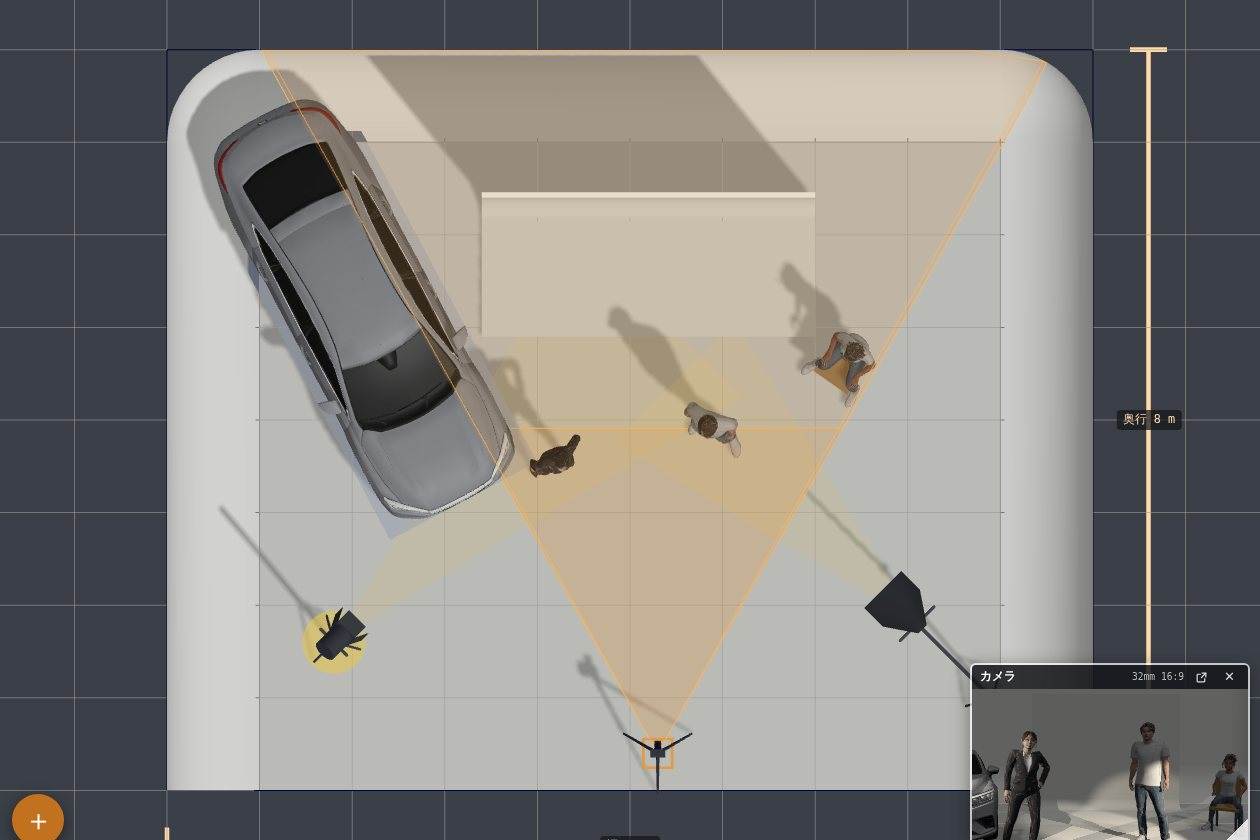
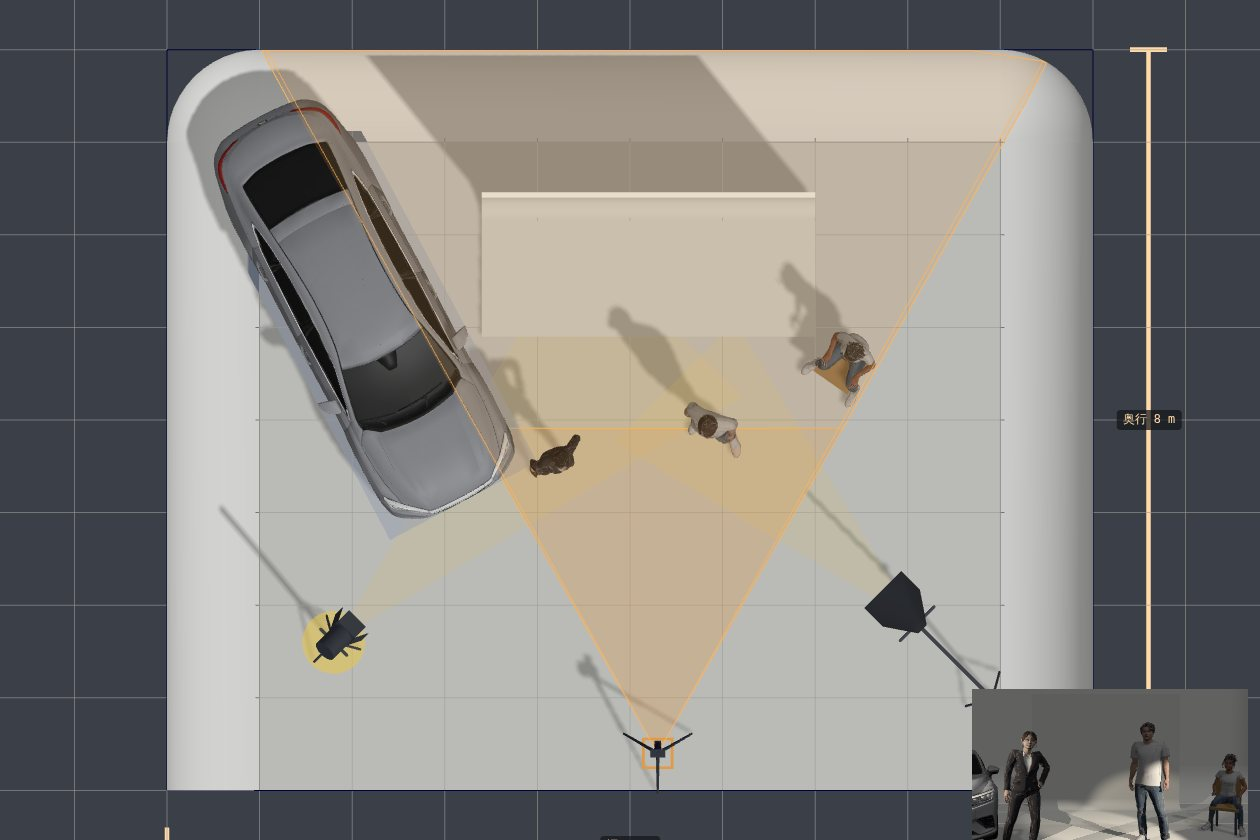
LP: 紹介動画をヒーローに、機能の説明を絵と文で交互に（v1.45.1）
- 「CG スタッフではなく現場の人のために」の節を外す（開発時の想いで、
  現場の人が知りたい情報ではない）
- 文を「です・ます」の完結した文に書き直す。体言止めを続けない、同じ話を
  言い換えて繰り返さない。英語も同じ構成で書き直し
- ヒーロー画像をやめ、YouTube の紹介動画をヒーローに。その下に
  スタジオ／カメラ／人物とポーズ／ライトと小道具／スキャンとカット／
  用紙・リンク・QR／スマホ／料金とデータ／FAQ の順で機能を説明
- 絵を 6 枚に（ライトの絵と + の人物一覧を追加、hero.jpg を廃止）。
  PC の絵は + と小窓を隠して撮る。tools/make-about-shots.mjs の
  orbit の呼び方を直す（状態オブジェクトへの代入）
- docs/notes/about.md に文の書き方と、寺村さんに用意してもらう絵のことを書く

Claude-Session: https://claude.ai/code/session_018TCFaYoGWeARcXNBdDJsaY

Changed region(s): [[0.7429, 0.7738, 1.0, 1.0], [0.0, 0.9286, 0.0619, 1.0]]

diff --git a/about/index.html b/about/index.html
@@ -4,10 +4,10 @@
 <meta charset="utf-8">
 <meta name="viewport" content="width=device-width, initial-scale=1, viewport-fit=cover">
 <title>Studio Planner とは</title>
-<meta name="description" content="スタジオの広さ・立ち位置・カメラの画角を、ブラウザで 30 秒。登録もインストールも要らない、撮影の準備と打合せのための 3D。A4 の図面と共有リンクにして現場に配れる。">
+<meta name="description" content="撮影の準備と打合せのための 3D の道具。スタジオの寸法を打ち込んで人や機材を置くと、カメラに何が写るかが分かります。登録もインストールも要りません。A4 の用紙とリンクにして配れます。">
 <meta property="og:type" content="website">
 <meta property="og:title" content="Studio Planner とは">
-<meta property="og:description" content="スタジオの広さ・立ち位置・カメラの画角を、ブラウザで 30 秒。登録もインストールも不要。">
+<meta property="og:description" content="撮影の準備と打合せのための 3D の道具。登録もインストールも要りません。">
 <meta property="og:image" content="https://sp.taichi-teramura.com/ogp.png">
 <meta name="twitter:card" content="summary_large_image">
 <link rel="icon" type="image/png" sizes="32x32" href="../favicon-32.png">
@@ -35,9 +35,10 @@
 }
 *{box-sizing:border-box}
 html{scroll-behavior:smooth}
-body{margin:0;background:var(--bg);color:var(--ink);font-family:"Noto Sans JP",system-ui,-apple-system,"Segoe UI",sans-serif;line-height:1.75;font-size:16px;-webkit-text-size-adjust:100%}
+body{margin:0;background:var(--bg);color:var(--ink);font-family:"Noto Sans JP",system-ui,-apple-system,"Segoe UI",sans-serif;line-height:1.85;font-size:16px;-webkit-text-size-adjust:100%}
 a{color:var(--link)}
 img{max-width:100%;height:auto;display:block}
+p{margin:0 0 1em}
 .wrap{max-width:1040px;margin:0 auto;padding:0 16px}
 header{position:sticky;top:0;z-index:5;background:color-mix(in srgb,var(--bg) 88%,transparent);backdrop-filter:blur(10px);border-bottom:1px solid var(--rule)}
 header .wrap{display:flex;align-items:center;gap:12px;height:56px}
@@ -47,54 +48,47 @@ header nav{margin-left:auto;display:flex;gap:6px;align-items:center}
 header nav a{text-decoration:none;color:var(--ink2);font-size:.9rem;padding:6px 10px;border-radius:8px}
 header nav a:hover{background:var(--panel)}
 header nav a.go{background:var(--btn-on);color:var(--btn-on-ink);font-weight:500}
-.hero{padding:56px 0 28px}
-.hero h1{font-size:clamp(1.7rem,4.2vw,2.7rem);line-height:1.3;margin:0 0 14px;letter-spacing:-.01em}
-.hero p.lead{font-size:1.05rem;color:var(--ink2);max-width:640px;margin:0 0 22px}
-.cta{display:flex;gap:10px;flex-wrap:wrap;margin:0 0 26px}
+.hero{padding:48px 0 12px}
+.hero h1{font-size:clamp(1.6rem,3.8vw,2.4rem);line-height:1.4;margin:0 0 16px;letter-spacing:-.01em}
+.hero p.lead{font-size:1.05rem;color:var(--ink2);max-width:680px;margin:0 0 22px}
+.cta{display:flex;gap:10px;flex-wrap:wrap;margin:0 0 28px}
 .btn{display:inline-block;padding:12px 22px;border-radius:12px;text-decoration:none;font-weight:700;border:1px solid var(--rule);background:var(--panel);color:var(--ink)}
 .btn.primary{background:var(--accent);border-color:var(--accent);color:#fff}
 .btn.primary:hover{filter:brightness(1.06)}
-.shot{border-radius:14px;overflow:hidden;box-shadow:0 12px 40px rgba(0,0,0,.18);background:var(--viewport);border:1px solid var(--rule)}
-.badges{display:flex;flex-wrap:wrap;gap:8px;margin:18px 0 0}
-.badges span{font-size:.82rem;padding:4px 10px;border-radius:999px;background:var(--accent-bg);color:var(--accent-ink);font-weight:500}
-section{padding:44px 0}
-section h2{font-size:1.45rem;margin:0 0 6px;letter-spacing:-.01em}
-section p.sub{color:var(--muted);margin:0 0 22px}
 .video{aspect-ratio:16/9;border-radius:14px;overflow:hidden;background:#000;box-shadow:0 12px 40px rgba(0,0,0,.18)}
 .video iframe{width:100%;height:100%;border:0;display:block}
-.three{display:grid;grid-template-columns:repeat(3,1fr);gap:18px}
-.card{background:var(--panel);border:1px solid var(--rule);border-radius:14px;overflow:hidden}
-.card .shot{border-radius:0;border:0;box-shadow:none}
-.card .t{padding:14px 16px 16px}
-.card h3{margin:0 0 4px;font-size:1.02rem}
-.card p{margin:0;color:var(--ink2);font-size:.92rem}
-.who{display:grid;grid-template-columns:repeat(4,1fr);gap:14px}
-.who div{background:var(--panel);border:1px solid var(--rule);border-radius:12px;padding:14px 16px}
-.who b{display:block;margin-bottom:2px}
-.who span{color:var(--ink2);font-size:.9rem}
-ul.feat{columns:2;column-gap:28px;padding:0 0 0 1.2em;margin:0}
-ul.feat li{break-inside:avoid;margin:0 0 6px;color:var(--ink2)}
-ul.feat li b{color:var(--ink);font-weight:500}
-.promise{display:grid;grid-template-columns:repeat(2,1fr);gap:12px 28px}
-.promise div{padding:12px 0;border-top:1px solid var(--rule)}
-.promise b{display:block}
-.promise span{color:var(--ink2);font-size:.92rem}
+.shot{border-radius:14px;overflow:hidden;box-shadow:0 12px 40px rgba(0,0,0,.18);background:var(--viewport);border:1px solid var(--rule)}
+.shot.light{background:var(--panel)}
+section{padding:40px 0}
+section h2{font-size:1.4rem;margin:0 0 12px;letter-spacing:-.01em;line-height:1.4}
+section p{color:var(--ink2)}
+section p:last-child{margin-bottom:0}
+.feature{display:grid;grid-template-columns:1.1fr 1fr;gap:36px;align-items:center}
+.feature.flip .shot{order:-1}
+.feature .t{max-width:460px}
+.feature .t p{font-size:.97rem}
+.two{display:grid;grid-template-columns:1fr 1fr;gap:28px}
+.two h2{font-size:1.2rem}
+.mobile .shot{max-width:300px;margin:0 auto}
+.plain{max-width:680px}
 details{border-top:1px solid var(--rule);padding:12px 0}
 details:last-of-type{border-bottom:1px solid var(--rule)}
 summary{cursor:pointer;font-weight:500;list-style:none;display:flex;justify-content:space-between;gap:12px}
 summary::after{content:"+";color:var(--muted);flex:none}
 details[open] summary::after{content:"−"}
 details p{margin:8px 0 0;color:var(--ink2)}
-.mobile{display:grid;grid-template-columns:1fr 1fr;gap:28px;align-items:center}
-.mobile .shot{max-width:320px;margin:0 auto}
-footer{padding:36px 0 48px;color:var(--muted);font-size:.85rem;border-top:1px solid var(--rule);margin-top:20px}
+.last{text-align:center;padding:24px 0 40px}
+.last p{margin-bottom:18px}
+footer{padding:36px 0 48px;color:var(--muted);font-size:.85rem;border-top:1px solid var(--rule);margin-top:8px}
 footer .wrap{display:flex;flex-wrap:wrap;gap:8px 20px;align-items:center}
 footer .sp{margin-left:auto}
 @media (max-width:760px){
-  .three,.who,.promise,.mobile{grid-template-columns:1fr}
-  ul.feat{columns:1}
-  header nav a.vid{display:none}
-  .hero{padding:36px 0 22px}
+  .feature,.two{grid-template-columns:1fr;gap:18px}
+  .feature .shot,.feature.flip .shot{order:-1}
+  .feature .t{max-width:none}
+  .hero{padding:32px 0 8px}
+  .hero h1 br{display:none}
+  section{padding:32px 0}
 }
 </style>
 </head>
@@ -103,7 +97,6 @@ footer .sp{margin-left:auto}
   <img src="../icon-192.png" alt="" width="28" height="28">
   <span class="name">Studio Planner</span>
   <nav>
-    <a class="vid" href="#video" data-en="Video">紹介動画</a>
     <a id="langsw" href="?eng" data-en="日本語">English</a>
     <a class="go" href="../" data-en="Open the app">使ってみる</a>
   </nav>
@@ -111,97 +104,100 @@ footer .sp{margin-left:auto}
 
 <main class="wrap">
   <div class="hero">
-    <h1 data-en="Studio size, blocking, and the lens. In your browser, in 30 seconds.">スタジオの広さ、立ち位置、カメラの画角。<br>ブラウザで、30 秒で。</h1>
-    <p class="lead" data-en="A 3D tool for planning shoots and talking them through. No account, no install. It gives you the one picture and the one floor plan a crew needs, as an A4 sheet and a link.">撮影の準備と打合せのための 3D。登録もインストールも要らない。現場に要る「一枚の絵」と「一枚の図面」を、A4 の用紙と共有リンクにする。</p>
+    <h1 data-en="Check the studio, the blocking and the lens before the shoot, right in the browser.">スタジオの広さと立ち位置とレンズの画角を、<br>撮影の前にブラウザで確かめられます。</h1>
+    <p class="lead" data-en="Studio Planner is a 3D tool for preparing a shoot and talking it through. Type in the studio size, place people and equipment, and you can see what the camera will get. It needs no account and no install. The result can be printed as an A4 sheet or sent as a link.">Studio Planner は、撮影の準備と打合せのための 3D の道具です。スタジオの寸法を打ち込んで人や機材を置くと、カメラに何が写るかがその場で分かります。登録もインストールも要りません。できた配置は A4 の用紙に印刷したり、リンクにして送ったりできます。</p>
     <div class="cta">
       <a class="btn primary" href="../" data-en="Open the app — free">使ってみる — 無料</a>
-      <a class="btn" href="#video" data-en="Watch the 2-minute video">紹介動画を見る</a>
     </div>
-    <div class="shot"><img src="img/hero.jpg" width="1600" height="1000" alt="Studio Planner の 3D 画面。スタジオに人物と車とライトを置いたところ" data-en-alt="The Studio Planner 3D view with people, a car and lights in a studio"></div>
-    <div class="badges">
-      <span data-en="Free">無料</span><span data-en="No sign-up">登録なし</span><span data-en="No install">インストールなし</span>
-      <span data-en="Phone, tablet, PC">スマホ・タブレット・PC</span><span data-en="Works offline">圏外でも開く</span><span data-en="Japanese / English">日本語 / English</span>
-    </div>
+    <div class="video"><iframe src="https://www.youtube-nocookie.com/embed/pjHt0Eg4Tx4?rel=0" title="Studio Planner 紹介動画" allow="accelerometer; encrypted-media; gyroscope; picture-in-picture; web-share" allowfullscreen referrerpolicy="strict-origin-when-cross-origin"></iframe></div>
   </div>
 
-  <section id="video">
-    <h2 data-en="See it in two minutes">2 分で分かる紹介動画</h2>
-    <p class="sub" data-en="What it does, from placing people to printing the sheet.">人物を置くところから、用紙を出すところまで。</p>
-    <div class="video"><iframe src="https://www.youtube-nocookie.com/embed/pjHt0Eg4Tx4?rel=0" title="Studio Planner 紹介動画" loading="lazy" allow="accelerometer; encrypted-media; gyroscope; picture-in-picture; web-share" allowfullscreen referrerpolicy="strict-origin-when-cross-origin"></iframe></div>
+  <section class="feature">
+    <div class="t">
+      <h2 data-en="Build the studio and see if it all fits">スタジオを作って、入るかどうかを見る</h2>
+      <p data-en="Type in the width, depth and height and the studio is there, cyc wall included. Anything you place in it is drawn at real size, so the top-down plan tells you straight away whether the car fits, how far the camera can pull back, and how much room is left for lights.">幅と奥行と高さを打ち込むと、ホリゾント付きのスタジオができます。そこに置いたものはすべて実寸で描かれるので、車が入るか、カメラはどこまで引けるか、ライトの場所は残るかが上面の図面ですぐに分かります。</p>
+      <p data-en="Dimensions are drawn on the plan as you go. Grab a corner to resize the studio or a backdrop, and the numbers follow.">寸法は図面の上に自動で描かれます。スタジオや背景布は角をつまんで大きさを変えられ、数字もそれに合わせて変わります。</p>
+    </div>
+    <div class="shot"><img src="img/plan.jpg" width="1200" height="800" alt="上面の図面。寸法のリボンと撮影範囲" data-en-alt="Top-down plan with dimensions and the camera's field of view"></div>
   </section>
 
-  <section>
-    <h2 data-en="Three answers a crew needs">現場が知りたい 3 つの答え</h2>
-    <p class="sub" data-en="Does it fit, what does the camera see, and what do we hand out.">入るのか、カメラに何が写るのか、何を配るのか。</p>
-    <div class="three">
-      <div class="card"><div class="shot"><img src="img/plan.jpg" width="1200" height="800" alt="上面の図面。寸法のリボンと撮影範囲" data-en-alt="Top-down plan with dimensions and the camera's field of view"></div>
-        <div class="t"><h3 data-en="Does it fit?">入るのか</h3><p data-en="Studio size, cyc walls, and everything to scale on a top-down plan with dimensions. Drag the corners to resize.">スタジオの寸法とホリゾント。人・車・機材が実寸で図面に載り、寸法が付く。角をつまめば大きさも変わる。</p></div></div>
-      <div class="card"><div class="shot"><img src="img/finder.jpg" width="1200" height="800" alt="ファインダー。センサーと焦点距離どおりの画角" data-en-alt="The viewfinder, framed by sensor format and focal length"></div>
-        <div class="t"><h3 data-en="What does the camera see?">カメラに何が写るのか</h3><p data-en="Pick a sensor format and a focal length and look through the camera. Mirrors and backdrops behave like the real thing.">センサーのフォーマットと焦点距離を選んで、カメラの目で見る。鏡の映り込みも背景布も本物どおり。</p></div></div>
-      <div class="card"><div class="shot"><img src="img/sheet.jpg" width="1200" height="800" alt="A4 の用紙。上面・側面・ファインダー・寸法" data-en-alt="The A4 sheet: plan, side view, viewfinder and dimensions"></div>
-        <div class="t"><h3 data-en="What do we hand out?">何を配るのか</h3><p data-en="One A4 sheet per shot, printed from the browser. Or a link, or a QR code, and the whole plan opens on any phone.">カットごとに A4 一枚。ブラウザから印刷。リンクか QR を配れば、どのスマホでも同じ配置が開く。</p></div></div>
+  <section class="feature flip">
+    <div class="t">
+      <h2 data-en="Look through the camera">カメラの目で見る</h2>
+      <p data-en="Choose a sensor format and a focal length, and the viewfinder shows exactly that angle of view. Move the camera, tilt it, or raise it, and the picture changes with it. Mirrors reflect what is really there and backdrops are cropped where the camera sees them.">センサーのフォーマットと焦点距離を選ぶと、ファインダーにその画角がそのまま出ます。カメラを動かしたり、上下に振ったり、高さを変えたりすると、絵もそれに合わせて変わります。鏡には実際にそこにあるものが映り、背景布はカメラから見える範囲で切れます。</p>
+      <p data-en="You can keep several cameras in one plan and switch between them. The picture in the finder is what goes onto the printed sheet.">カメラは 1 つの図面に何台でも置けて、切り替えて見られます。ファインダーの絵は、そのまま印刷用の用紙に載ります。</p>
+    </div>
+    <div class="shot"><img src="img/finder.jpg" width="1200" height="800" alt="ファインダー。センサーと焦点距離どおりの画角" data-en-alt="The viewfinder, framed by sensor format and focal length"></div>
+  </section>
+
+  <section class="feature">
+    <div class="t">
+      <h2 data-en="People, with poses">人物を置いて、ポーズを付ける</h2>
+      <p data-en="There are 14 people to choose from, adults and children, and you can set each one's height and clothing. Eleven poses cover standing, sitting and lying down, and the fingers move too. Put a chair or an apple box under someone and they sit on it.">人物は大人と子どもを合わせて 14 体あり、身長と服装を変えられます。ポーズは立つ・座る・寝るなど 11 種類で、指まで動きます。椅子や箱馬の上に置けば、そこに座ります。</p>
+      <p data-en="If none of the poses is right, take a photo of the pose you want. The person on screen takes the same pose. The photo is read on your device and never uploaded.">用意したポーズに無い姿勢は、写真を撮って指定できます。写した姿勢がそのまま画面の人物に乗ります。写真は端末の中で読むだけで、どこにも送られません。</p>
+    </div>
+    <div class="shot light"><img src="img/people.jpg" width="1720" height="1000" alt="人物の一覧。+ から選ぶ" data-en-alt="The people list, opened from the + button"></div>
+  </section>
+
+  <section class="feature flip">
+    <div class="t">
+      <h2 data-en="Lights and props">ライトと小道具</h2>
+      <p data-en="Lights come in five types and can go on a stand, a boom or the floor. Set the tilt, the spread and the color. On the plan they are drawn as symbols; in the 3D view they cast light and shadows, so you can see where the light falls before anyone rigs it.">ライトは 5 つの型があり、スタンド・ブーム・床置きのどれかで置けます。向きと広がりと色を決めると、図面には記号として、3D の画面には光と影として描かれます。誰かが吊る前に、どこに光が当たるかを見ておけます。</p>
+      <p data-en="Cars, chairs, tables, apple boxes, scaffolding, flats, mirrors and LED displays are built in. Your own GLB or FBX models can be dropped in as well, and their size is read from the file.">車、椅子、テーブル、箱馬、イントレ、カポック、鏡、ディスプレイが最初から入っています。手持ちの GLB や FBX のモデルも取り込めて、大きさはファイルから読み取ります。</p>
+    </div>
+    <div class="shot"><img src="img/lights.jpg" width="1200" height="800" alt="3D の画面。スポットとソフトライトの光と影" data-en-alt="The 3D view with a spot and a soft light casting shadows"></div>
+  </section>
+
+  <section class="two">
+    <div>
+      <h2 data-en="Plan inside a scan of the location">ロケ地のスキャンの中で組む</h2>
+      <p data-en="If you have a 3D Gaussian-splat scan of a location, drop it in. It comes in at real scale, and you can place people, cars and cameras inside it just as you would in a studio. Only how the scan is placed goes into the share link; the scan itself stays on your device.">ロケ地を 3D ガウシアンスプラットでスキャンしてあれば、そのファイルを取り込めます。実寸で入るので、スタジオと同じように中に人や車やカメラを置けます。共有リンクに入るのは置き方だけで、スキャンそのものは端末に残ります。</p>
+    </div>
+    <div>
+      <h2 data-en="Several shots in one plan">1 つの図面に、複数のカット</h2>
+      <p data-en="Each shot keeps its own camera and blocking, and you switch between them with a tap. The sheet is printed per shot, so a day with five setups is five pages, all from one file.">カットごとにカメラと立ち位置を持てて、タップで切り替えられます。用紙はカット単位で出るので、5 カットの日なら 1 つのファイルから 5 枚が出ます。</p>
     </div>
   </section>
 
-  <section>
-    <h2 data-en="Made for the people on set, not for CG staff">CG スタッフではなく、現場の人のために</h2>
-    <p class="sub" data-en="Everyone should get their answer in 30 seconds, without a manual.">説明書なしで、誰でも 30 秒で答えが出るように。</p>
-    <div class="who">
-      <div><b data-en="Production manager">プロダクションマネージャー</b><span data-en="Is this studio big enough? Send the plan before booking.">このスタジオで足りるか。予約の前に図面を送る。</span></div>
-      <div><b data-en="Camera">カメラマン</b><span data-en="Lens and camera position, checked in the finder, agreed in advance.">レンズと立ち位置を、ファインダーで先に決めておく。</span></div>
-      <div><b data-en="Lighting">照明</b><span data-en="Where the lights go and what they hit. Symbols on the plan, light in the picture.">ライトの位置と向き。図面では記号、絵では光。</span></div>
-      <div><b data-en="Director">ディレクター</b><span data-en="Try the blocking with posed people before anyone is on the floor.">誰も入る前に、ポーズ付きの人物で段取りを試す。</span></div>
+  <section class="feature">
+    <div class="t">
+      <h2 data-en="Hand it out as a sheet, a link or a QR code">用紙とリンクと QR で配る</h2>
+      <p data-en="One A4 sheet per shot carries the plan, the side view, the viewfinder and the dimensions. It is printed from the browser, so there is nothing to install. Reframe the plan and the side view on the page as you like; only the finder stays fixed, so the printed frame is always what the camera will see.">A4 の用紙 1 枚に、上面図と側面図とファインダーの絵と寸法が入ります。印刷はブラウザから行うので、追加のソフトは要りません。上面図と側面図は用紙の中で好きに構図を直せますが、ファインダーだけは固定してあります。印刷した絵とカメラが撮る画角がずれないようにするためです。</p>
+      <p data-en="The share link holds the whole plan, so whoever opens it sees the same layout on their phone. A QR code of the link can go on the sheet or on the wall of the studio.">共有リンクには配置がまるごと入っているので、開いた人のスマホに同じ配置が出ます。リンクは QR コードにもできるので、用紙やスタジオの壁に貼っておけます。</p>
     </div>
+    <div class="shot light"><img src="img/sheet.jpg" width="1200" height="800" alt="A4 の用紙。上面・側面・ファインダー・寸法" data-en-alt="The A4 sheet: plan, side view, viewfinder and dimensions"></div>
   </section>
 
-  <section>
-    <h2 data-en="What's in it">できること</h2>
-    <p class="sub" data-en="Everything runs in the browser. Your data stays on your device.">ぜんぶブラウザの中で動く。データは端末の中に残る。</p>
-    <ul class="feat">
-      <li><b data-en="14 people with poses">人物 14 体とポーズ</b> — <span data-en="adults and children, standing, sitting, lying; fingers included">大人と子ども、立つ・座る・寝る、指まで動く</span></li>
-      <li><b data-en="Pose from a photo">写真からポーズ</b> — <span data-en="shoot a photo and the person takes that pose; nothing leaves the phone">写した姿勢がそのまま乗る。写真はどこにも送らない</span></li>
-      <li><b data-en="Cars, props, gear">車・小道具・機材</b> — <span data-en="cars, chairs, tables, apple boxes, scaffolding, flats, displays">車、椅子、テーブル、箱馬、イントレ、カポック、ディスプレイ</span></li>
-      <li><b data-en="Lights">ライト</b> — <span data-en="five types, stands and booms, tilt, spread, color; shadows in the picture">5 つの型、スタンドとブーム、チルト・広がり・色、絵には影</span></li>
-      <li><b data-en="Mirrors and backdrops">鏡と背景布</b> — <span data-en="real reflections in the finder, cyc with a curve">映り込みが本物どおり、R 付きのホリゾント</span></li>
-      <li><b data-en="Location scans (3DGS)">ロケ地のスキャン（3DGS）</b> — <span data-en="drop a Gaussian-splat scan in at real scale and plan inside it">ガウシアンスプラットのスキャンを実寸で置いて、その中で組む</span></li>
-      <li><b data-en="Your own 3D models">自分の 3D モデル</b> — <span data-en="GLB and FBX, sized automatically">GLB と FBX。寸法は自動</span></li>
-      <li><b data-en="Shots">カット</b> — <span data-en="several setups in one plan, one sheet each">1 つの図面に複数のカット、用紙はカットごと</span></li>
-      <li><b data-en="Share by link or QR">リンクと QR で共有</b> — <span data-en="the whole plan lives in the URL; no server, no account">配置は URL の中。サーバーもアカウントも無い</span></li>
-      <li><b data-en="Offline">オフライン</b> — <span data-en="opens without signal once you've opened it; or export one self-contained HTML">一度開いた端末は圏外でも開く。1 枚の HTML にも書き出せる</span></li>
-      <li><b data-en="Undo, lock, duplicate">取り消し・ロック・複製</b> — <span data-en="and a ruler to measure anything">それと、何でも測れる定規</span></li>
-      <li><b data-en="English">英語表示</b> — <span data-en="switches with the browser language">ブラウザの言語で自動</span></li>
-    </ul>
-  </section>
-
-  <section>
-    <div class="mobile">
-      <div>
-        <h2 data-en="On the phone in your pocket">ポケットのスマホで</h2>
-        <p class="sub" data-en="Add it to the home screen and it opens like an app. Pinch, drag, long-press. Every plan you were sent opens from the link.">ホーム画面に置けばアプリのように開く。つまむ、引く、長押し。送られた図面はリンクから開く。</p>
-        <p data-en="Studio Planner is built for the phone first: the panel folds away, the handles are sized for fingers, and the finder shows exactly what the sensor sees.">パネルは畳めて、つまみは指の大きさ。ファインダーはセンサーどおりの絵を出す。</p>
-      </div>
-      <div class="shot"><img src="img/mobile.jpg" width="780" height="1400" alt="スマホでの表示" data-en-alt="Studio Planner on a phone"></div>
+  <section class="feature flip mobile">
+    <div class="t">
+      <h2 data-en="It works on the phone in your pocket">ポケットのスマホで動きます</h2>
+      <p data-en="Studio Planner is a web page, so it opens in Safari or Chrome on a phone, a tablet or a PC. Add it to the home screen and it opens like an app, and once it has been opened it keeps working without a signal.">Studio Planner は Web ページなので、スマホでもタブレットでも PC でも、Safari や Chrome で開くだけで使えます。ホーム画面に追加するとアプリのように開き、一度開いた端末なら電波の無い場所でも動きます。</p>
+      <p data-en="The controls are made for fingers: pinch to zoom, drag to move, long-press for the menu. The settings panel folds away so the drawing gets the whole screen.">操作は指を前提にしてあります。つまんで拡大し、引いて動かし、長押しでメニューが出ます。設定のパネルは畳めるので、図面に画面をいっぱいに使えます。</p>
     </div>
+    <div class="shot"><img src="img/mobile.jpg" width="780" height="1400" alt="スマホでの表示" data-en-alt="Studio Planner on a phone"></div>
   </section>
 
   <section>
-    <h2 data-en="What we promise">約束していること</h2>
-    <div class="promise">
-      <div><b data-en="No account, ever">アカウントは作らない</b><span data-en="Sign-up is where crews give up. There is nothing to sign up for.">登録の壁がいちばんの離脱。だから無い。</span></div>
-      <div><b data-en="Free">無料</b><span data-en="Open source (MIT). The people models are the author's own.">オープンソース（MIT）。人物モデルは作者自身のもの。</span></div>
-      <div><b data-en="Your data stays with you">データは手元に残る</b><span data-en="Plans, photos and imported models never leave the device. Only visit counts are measured, without cookies.">図面・写真・取り込んだモデルは端末から出ない。計るのは訪問数だけ、Cookie も使わない。</span></div>
-      <div><b data-en="No camera model lists">機種名のリストを持たない</b><span data-en="Sensors are formats, not models. Formats don't change for decades, so nothing goes stale.">センサーはフォーマットで持つ。規格は数十年変わらないから、古くならない。</span></div>
+    <h2 data-en="Price and data">料金とデータの扱い</h2>
+    <div class="plain">
+      <p data-en="Studio Planner is free, and the code is open source under the MIT license. There is no account to create and no server that stores your plans. Everything you make stays in your browser and in the links you send. Photos used for poses and 3D files you import never leave the device.">Studio Planner は無料で、コードは MIT ライセンスで公開しています。アカウントは無く、図面を預かるサーバーもありません。作ったものはブラウザの中と、送ったリンクの中にだけあります。ポーズ用の写真や取り込んだ 3D ファイルも端末の外には出ません。</p>
+      <p data-en="The only thing measured is the number of visits, without cookies.">計っているのは訪問数だけで、Cookie は使っていません。</p>
     </div>
   </section>
 
   <section>
     <h2 data-en="Questions">よくある質問</h2>
-    <details><summary data-en="Does it work on iPhone and iPad?">iPhone や iPad で動きますか</summary><p data-en="Yes, in Safari. Add it to the home screen for the full-screen app. Android and PC browsers work too.">Safari で動きます。ホーム画面に追加すると全画面で開きます。Android と PC のブラウザも同じです。</p></details>
-    <details><summary data-en="Where is my plan saved?">図面はどこに保存されますか</summary><p data-en="In your browser, on your device. The share link carries the whole plan, so keep the link and you keep the plan. There is no server to lose it on.">ブラウザの中、その端末の中です。共有リンクに配置がまるごと入っているので、リンクを持っていれば図面を持っていることになります。無くすサーバーがありません。</p></details>
-    <details><summary data-en="Are photos for poses uploaded anywhere?">ポーズ用の写真はどこかに送られますか</summary><p data-en="No. Pose detection runs inside the browser. The photo is read once and thrown away; only joint positions are kept.">送られません。姿勢の検出はブラウザの中で動きます。写真は一度読んで捨て、残るのは関節の位置だけです。</p></details>
-    <details><summary data-en="How accurate is the lens?">レンズの画角はどのくらい正確ですか</summary><p data-en="Geometrically exact for the sensor format and focal length you choose. It doesn't simulate specific camera bodies; it doesn't need to.">選んだフォーマットと焦点距離に対して幾何学的に正確です。特定の機種は真似しません。その必要が無いからです。</p></details>
-    <details><summary data-en="Can I bring in my own studio or location?">自分のスタジオやロケ地を入れられますか</summary><p data-en="Yes: type the dimensions, import a 3D model, or drop in a 3D Gaussian-splat scan from your phone.">寸法を打ち込むか、3D モデルを取り込むか、スマホで撮った 3D ガウシアンスプラットのスキャンを置くかの 3 つです。</p></details>
+    <details><summary data-en="Which cameras are supported?">対応しているカメラは何ですか</summary><p data-en="Any camera. Instead of a list of camera models, you pick the sensor format (full frame, Super 35, Micro Four Thirds and so on) and type the focal length. Formats have not changed in decades, so the list never goes stale.">どのカメラでも使えます。機種名のリストは持たず、センサーのフォーマット（フルサイズ、Super 35、マイクロフォーサーズなど）を選んで焦点距離を打ち込みます。フォーマットは何十年も変わっていないので、古くなることがありません。</p></details>
+    <details><summary data-en="Where is my plan saved?">図面はどこに保存されますか</summary><p data-en="In the browser on the device you used, and in the share link. If you keep the link, you keep the plan. You can also save it as a file.">使った端末のブラウザの中と、共有リンクの中です。リンクを残しておけば図面も残ります。ファイルとして保存することもできます。</p></details>
+    <details><summary data-en="Can I use my own studio?">自分のスタジオを入れられますか</summary><p data-en="Yes. Type in the dimensions, import a 3D model of it, or bring in a Gaussian-splat scan taken with a phone.">入れられます。寸法を打ち込むか、スタジオの 3D モデルを取り込むか、スマホで撮ったガウシアンスプラットのスキャンを置くかです。</p></details>
+    <details><summary data-en="Does it calculate exposure or light levels?">光量は計算できますか</summary><p data-en="No. Lights show position, direction and spread, which is what a plan needs. It is not a lighting simulator.">できません。ライトが持っているのは位置と向きと広がりで、打合せの図面に要るのはそこまでだと考えています。照明のシミュレーターではありません。</p></details>
+    <details><summary data-en="Is there an English version?">英語で使えますか</summary><p data-en="Yes. The app follows the browser language, and you can force English by adding ?eng to the address.">使えます。ブラウザの言語に合わせて切り替わり、アドレスに ?eng を付けると英語に固定できます。</p></details>
   </section>
+
+  <div class="last">
+    <p data-en="It runs in the browser, so the quickest way to see what it does is to open it.">ブラウザで動くので、開いてみるのがいちばん早いです。</p>
+    <a class="btn primary" href="../" data-en="Open the app — free">使ってみる — 無料</a>
+  </div>
 </main>
 
 <footer><div class="wrap">
@@ -218,7 +214,7 @@ footer .sp{margin-left:auto}
   if (!en) return;
   document.documentElement.lang = 'en';
   document.title = 'About Studio Planner';
-  document.querySelector('meta[name="description"]').content = 'Studio size, blocking and the lens, in your browser, in 30 seconds. No account, no install. A 3D tool for planning shoots, giving you an A4 sheet and a link.';
+  document.querySelector('meta[name="description"]').content = 'A 3D tool for preparing a shoot and talking it through. Type in the studio size, place people and equipment, and see what the camera will get. No account, no install. Print an A4 sheet or send a link.';
   for (const e of document.querySelectorAll('[data-en]')){ if (e.querySelector('[data-en]')) continue; e.textContent = e.dataset.en; }
   for (const e of document.querySelectorAll('[data-en-alt]')) e.alt = e.dataset.enAlt;
   const sw = document.getElementById('langsw'); sw.href = '?lang=ja'; sw.textContent = '日本語';

diff --git a/index.html b/index.html
@@ -402,7 +402,7 @@ label.f2 textarea{resize:vertical;line-height:1.5}
         <div class="row"><button class="btn" id="glb">3Dデータ書き出し（GLB）</button></div>
         <div class="row" id="bundlerow"><button class="btn" id="bundlebtn">HTML書き出し</button></div>
         <p class="hint" id="bundlestat">外部3Dデータと人物・車のモデルをすべて含めたHTMLファイルとして書き出します。オフライン環境のPCで開く事が可能です。</p>
-        <p class="colophon"><a href="https://www.taichi-teramura.com/" target="_blank" rel="noopener" title="www.taichi-teramura.com">Studio Planner v1.45.0 © 2026 Taichi Teramura</a></p>
+        <p class="colophon"><a href="https://www.taichi-teramura.com/" target="_blank" rel="noopener" title="www.taichi-teramura.com">Studio Planner v1.45.1 © 2026 Taichi Teramura</a></p>
         <p class="aboutlink"><a id="aboutlink" href="about/" target="_blank" rel="noopener">Studio Planner について</a></p>
         <a class="ytlink" href="https://youtu.be/pjHt0Eg4Tx4" target="_blank" rel="noopener" title="紹介動画（YouTube）" aria-label="紹介動画（YouTube）"><svg viewBox="0 0 28 20" aria-hidden="true"><path fill="#f00" d="M27.4 3.1a3.5 3.5 0 0 0-2.5-2.5C22.7 0 14 0 14 0S5.3 0 3.1.6A3.5 3.5 0 0 0 .6 3.1C0 5.3 0 10 0 10s0 4.7.6 6.9a3.5 3.5 0 0 0 2.5 2.5c2.2.6 10.9.6 10.9.6s8.7 0 10.9-.6a3.5 3.5 0 0 0 2.5-2.5c.6-2.2.6-6.9.6-6.9s0-4.7-.6-6.9z"/><path fill="#fff" d="M11.2 14.3 18.4 10l-7.2-4.3z"/></svg></a>
       </div>

diff --git a/sw.js b/sw.js
@@ -7,7 +7,7 @@
 //     勝手に取りに行かない。実際に使ったものだけを runtime に溜める
 //     （「オフラインに保存」ボタンは外した）。
 //  3. 版を上げるときは VERSION を変える。古い殻のキャッシュは activate で捨てる。
-const VERSION = 'v1.45.0';
+const VERSION = 'v1.45.1';
 // 同じドメインの /beta/ に試験版を出す。キャッシュはドメイン単位で共有されるので、殻の scope を名前に足して
 // 分ける。ルート（本番）は今までどおりの名前で、/beta/ は '@/beta/' が付く。捨てるのも自分の scope のぶんだけ
 const SCOPE = new URL(self.registration.scope).pathname;

diff --git a/docs/notes/about.md b/docs/notes/about.md
@@ -8,18 +8,27 @@
 **https://sp.taichi-teramura.com/about/**（同じサイトの中。`about/index.html` の 1 枚）。アプリ本体（`/`）は配った共有リンクと
 QR が全部指しているので動かせない。同じリポジトリなので `tools/collect-site.sh` がそのまま拾い、ベータにも `/beta/about/` が出る。
 
-- **1 枚の静的ページ。** 見出し（一言）→ 使ってみる → 紹介動画（YouTube `pjHt0Eg4Tx4`、`youtube-nocookie.com` の埋め込み）→
-  3 つの答え（図面・ファインダー・用紙の絵）→ 誰のために（PM・カメラマン・照明・ディレクター）→ できること →
-  スマホ → 約束していること → よくある質問 → フッター。文言は `docs/notes/` と CLAUDE.md の「誰のための道具か」に沿う。
+- **1 枚の静的ページ。** 見出し（1 文）→ 使ってみる → **紹介動画がヒーロー**（YouTube `pjHt0Eg4Tx4`、`youtube-nocookie.com` の埋め込み。
+  v1.45.1 から。それまでは 3D の画面写真だった）→ 機能の説明を絵と文で交互に（スタジオを作る／カメラの目で見る／人物とポーズ／
+  ライトと小道具／ロケ地のスキャンとカット／用紙・リンク・QR／スマホ）→ 料金とデータ → よくある質問 → 最後にもう一度「使ってみる」→ フッター。
+- **文の書き方（v1.45.1、寺村さんの指摘）。** 「CG スタッフではなく現場の人のために」の節は外した。開発時の想いであって、
+  現場の人が知りたい情報ではない。それと「AI 臭い」文にしない: **硬い言い回しをしない、体言止めを続けない、同じ話を
+  言い換えて何度も書かない。** 本文は「です・ます」の完結した文で、1 つの機能は 1 か所にだけ書く（「登録なし」は冒頭と
+  料金の節だけ、など）。見出しは短くてよい。
 - **見た目はアプリと同じ色の変数**（`--bg` `--panel` `--accent` …。ダーク対応も同じ 2 段の書き方）。書体も同じ Noto Sans JP。
 - **英語はアプリと同じ流儀**: ブラウザが日本語でなければ英語、`?eng` で強制、`?lang=ja` で日本語。ただし辞書方式ではなく、
   要素ごとに `data-en`（`alt` は `data-en-alt`）に英文を持ち、起動時に差し替える。`html.lang`・`title`・description も切り替え、
   「使ってみる」のリンクには `?eng` を付ける。**新しい文言を足したら `data-en` も付ける**（ブロック 49 が `?eng` で日本語の
   残りを探す。言語の切替リンクの「日本語」だけは除外）。
 - **絵は `tools/make-about-shots.mjs` で焼く**（`cd test && node ../tools/make-about-shots.mjs`）。同じ配置（人 3・椅子・車・ライト 2・
-  背景布・カメラ 32 mm）を組んで、3D（PC の画面ごと 1600 × 1000）・上面・ファインダー（`#gl` の真ん中を 1200 × 800）・
-  A4 の用紙（PDF の画面の 1 ページ目）・スマホ（390 × 700 の 2 倍）の 5 枚を JPEG（q84、60〜130 KB）で `about/img/` に。
+  背景布・カメラ 32 mm）を組んで、上面・ファインダー・ライト（3D で寄って環境光を落とし、光と影が主役の角度。`#gl` の真ん中を
+  1200 × 800）・A4 の用紙（PDF の画面の 1 ページ目）・スマホ（390 × 700 の 2 倍）・`+` の人物一覧（`#people` を 2 倍で）の
+  6 枚を JPEG（q84〜86、40〜90 KB）で `about/img/` に。PC の絵は `+` ボタンと小窓を `visibility:hidden` にしてから撮る。
+  `window.__sp.orbit` は状態のオブジェクト（`theta` `phi` `radius`）で関数ではないので、視点は代入で決める。
   人物モデルは 3 体とも読み終わるのを待ってから撮る。ヘッドレスの swiftshader なので影は実機よりぼんやりしている。
+- **寺村さんに用意してもらう絵（未着）。** 手持ちの画面写真だけで組まず、実物の写真を差し込む。欲しいものは v1.45.1 の
+  報告で伝えてある（現場で iPad を見ている写真、本物のロケ地スキャンの画面、印刷した用紙、写真ポーズ指定の元写真と結果の並び、
+  図面と実際に撮れた絵の並び）。届いたら `about/img/` に置いて該当の節に差し替える。
 - **訪問数の計測（Cloudflare の beacon）は LP にも入れてある。** アプリと同じトークンで、path が `/about/` になる。
 - **アプリからのリンク**は「保存・共有」タブのコロフォンの下、`#aboutlink`（「Studio Planner について」、`about/`、別タブ）。
   `.colophon` の外（ブロック 28d はコロフォンが 1 行であることを見ている）。**1 枚の HTML や `file://` からは `about/` が
